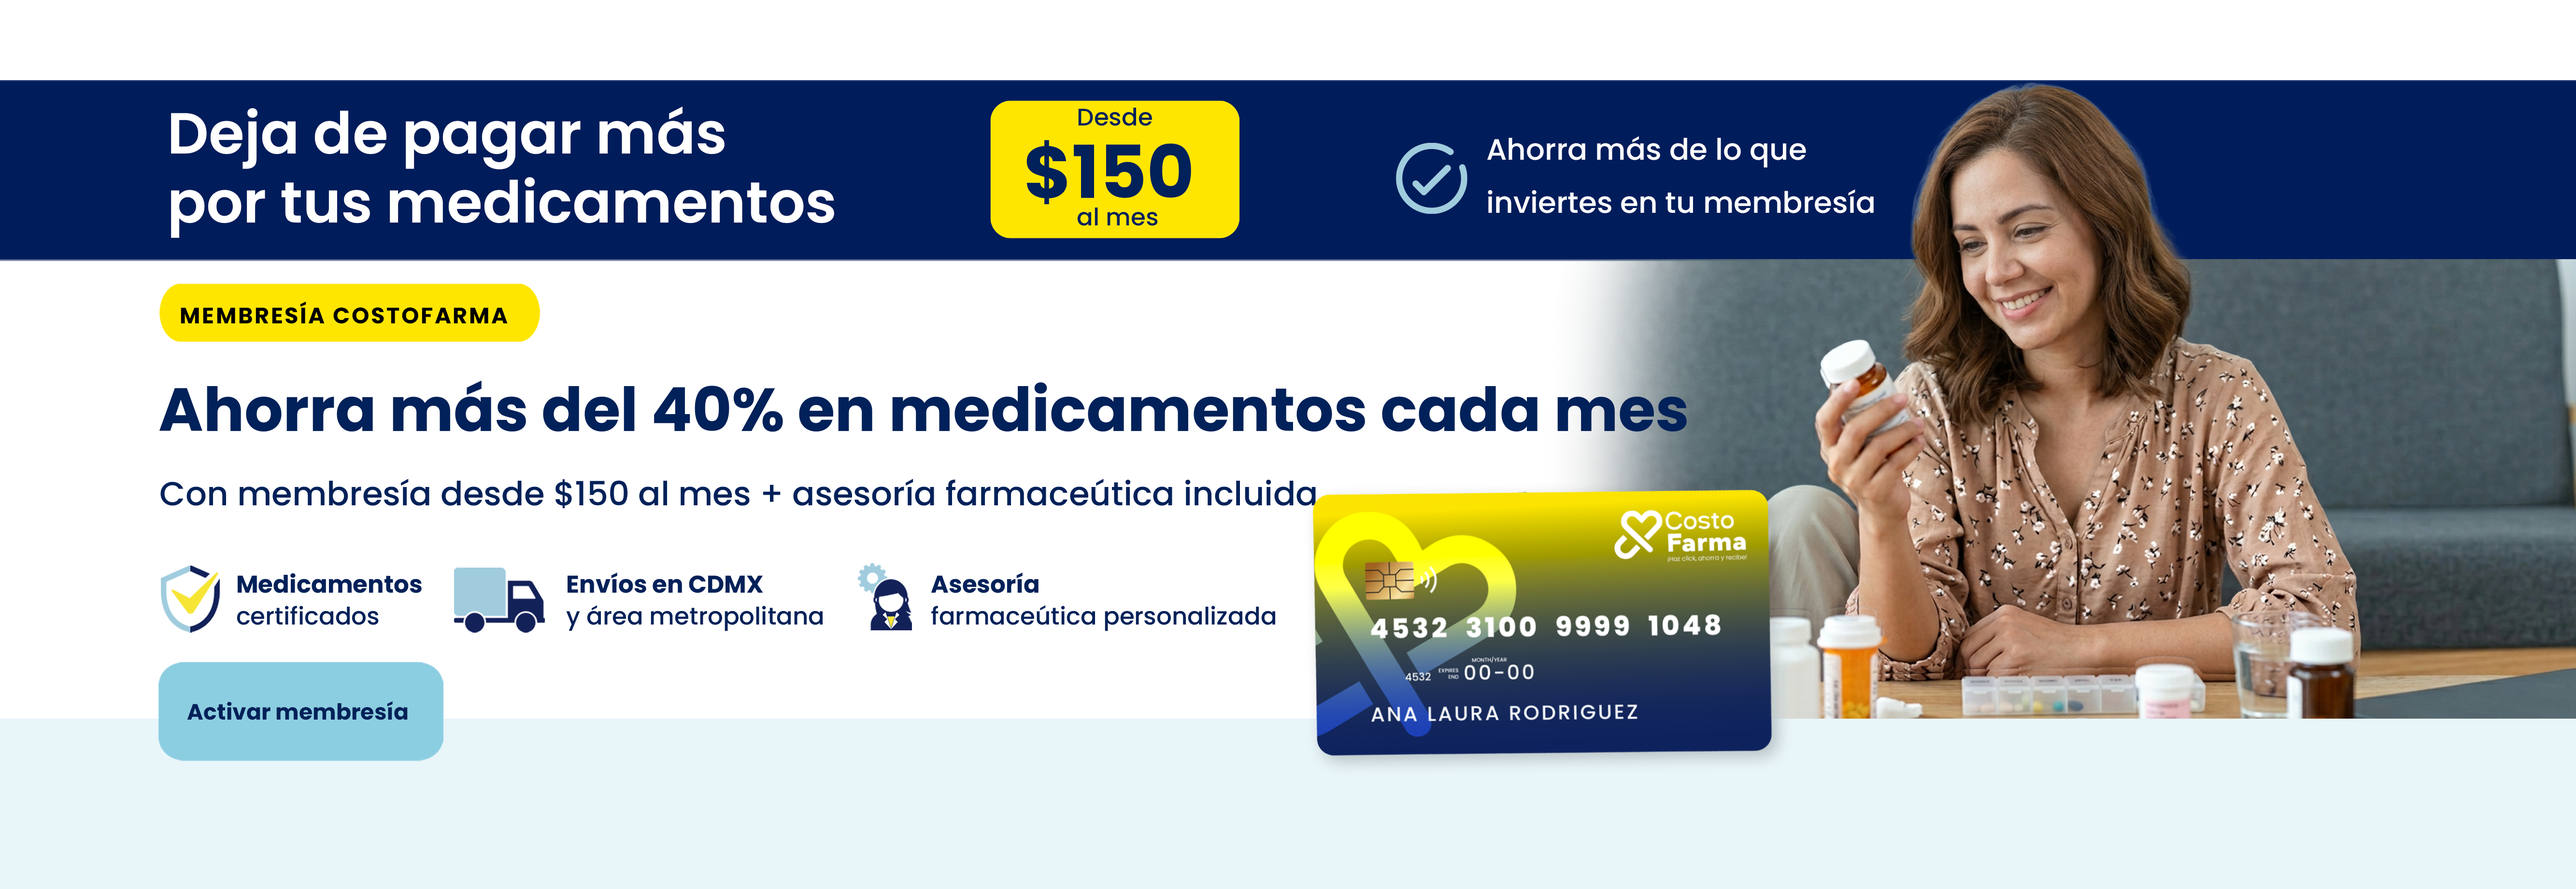
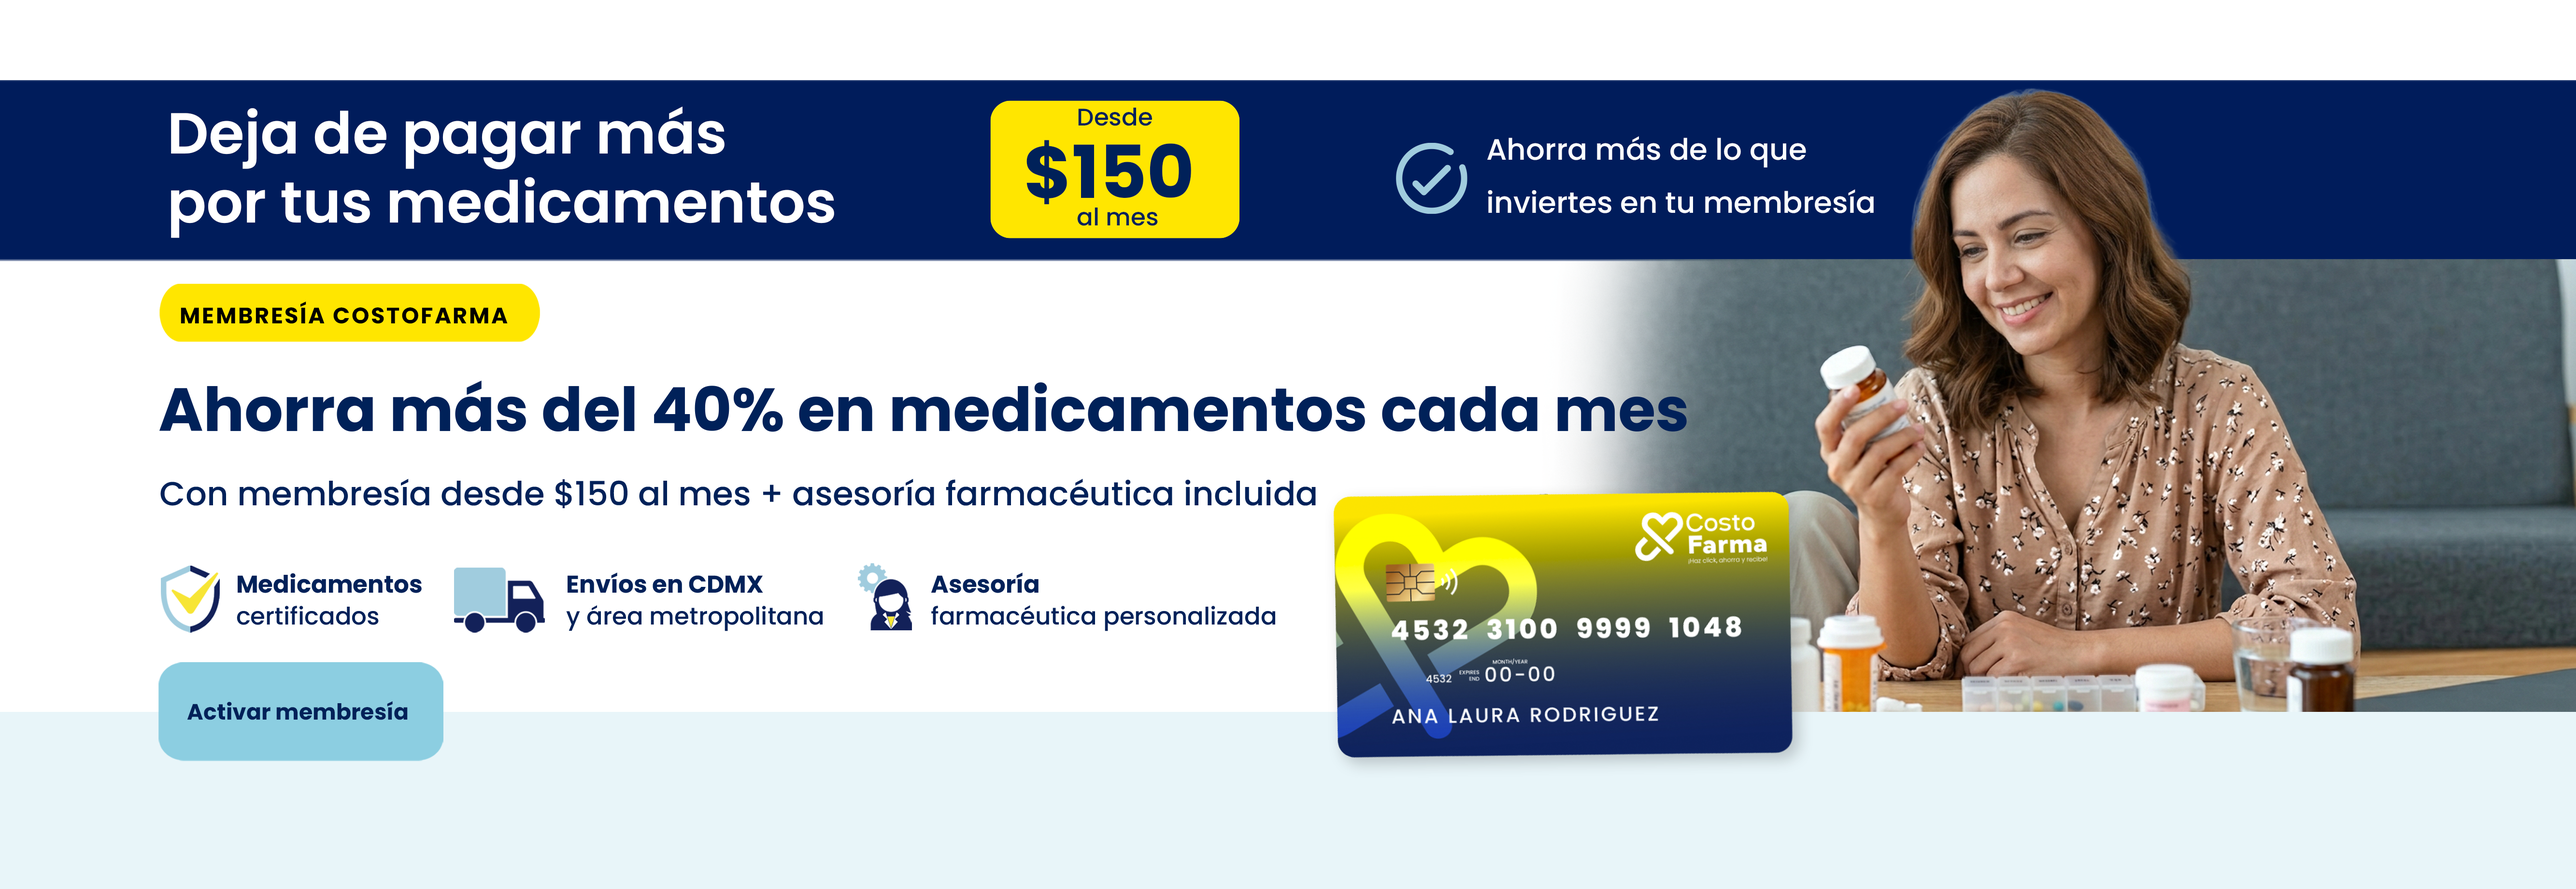
feat: :sparkles: update hero images for improved visual presentation

Changed region(s): [[0.498, 0.0928, 0.9338, 0.8664], [0.9027, 0.7736, 1.0, 0.8355]]

diff --git a/src/components/Hero.tsx b/src/components/Hero.tsx
@@ -50,7 +50,7 @@ export const Hero = ({ onScrollToPayment }: HeroProps) => {
             alt="Hero Desktop"
           />
         </div>
-        <div className="hidden sm:block hover:cursor-pointer">
+        <div className="hidden sm:block ">
           <img
             src={
               location.pathname === "/" ||
